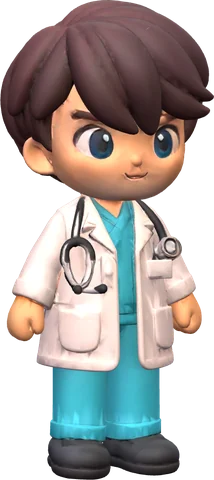
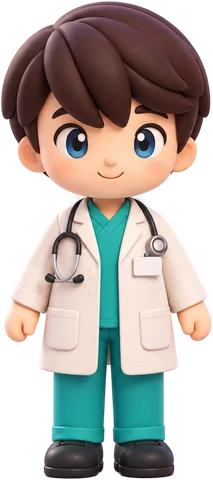
Practice scenes: the doctor, nurse and visitor cut straight from Jose's drawing
The Tripo renders looked off up close (rough painted skin, lumpy hair); a
second Tripo try with detailed texture was still rough. The trainer only
needs still pictures, so the three are now cut out of docs/art/figures-
reference.png (rembg, alpha matting), ~23 KB each. Same layout and motion.

User Guide: nothing to change (the answer describes who stands where, which
is the same).

Claude-Session: https://claude.ai/code/session_01URjRTzQ2mSww3QM2VRj7tw

diff --git a/index.html b/index.html
@@ -11008,8 +11008,8 @@ function memInto(L){ return L.dir === 'en-es' ? 'Spanish' : 'English'; }
 /* Practice scenes (docs/features/practice-scenes.md): the two speakers stand
    either side of the ring, the provider left, the patient or family right,
    you (the ring) between them. The one saying the line leans in while the
-   phone speaks. Pictures rendered once from the Tripo figures (figures/). */
-const MEM_FIG = { doctor:[214, 480], nurse:[189, 480], visitor:[254, 480] };
+   phone speaks. Pictures cut from Jose's drawing, docs/art/figures-reference.png (figures/). */
+const MEM_FIG = { doctor:[213, 480], nurse:[195, 480], visitor:[232, 480] };
 const MEM_PROVIDER = { discharge:'nurse', meds:'nurse', ob:'nurse', peds:'nurse', consent:'doctor', ed:'doctor', ff:'doctor' };
 function memFigHtml(who, side, state){
   const [w, h] = MEM_FIG[who];

diff --git a/CLAUDE.md b/CLAUDE.md
@@ -79,7 +79,7 @@ between assignments.
 | `features/duplicate-doctors.js` | 161 | Duplicate doctors: the likely pairs (`nameParts`, `looksLikeSamePerson`, `duplicateDoctorGroups`), the merge (`mergeDoctorRecords`, `mergeDuplicateDoctors`) and its card in the doctor list's tidy sheet (`duplicateBannerHtml`). Moved verbatim (2026-10-25) |
 | `features/backfill.js` | 154 | The terminology backfill: doctors whose research is still the old flat list (`doctorsNeedingTiers`) re-researched one at a time (`runTierBackfill`, `cancelTierBackfill`, `tierBackfill`) and its card in the doctor list's tidy sheet (`backfillBannerHtml`). Moved verbatim (2026-10-25) |
 | `features/ask-hub.js` | 2,040 | Ask the Hub with Dr. Smiley's side of it: retrieval and the answer (`askRetrieve`, `submitAsk`, `askTurnHtml`, `askLayout`), following a conversation (`ASK.convo`), context and actions (`askContext`, `ASK_ACTION_TYPES`, `ASK_RUN`), what he remembers (`drMemGet`, `ih_smileyMemory`), the memory screen (`openMemory`), your practice and the next step, corrections, feedback, sources and the owner's team notes review (`renderAskReview`). Moved verbatim (2026-10-25), 7 sections at once; a few lines stay in `index.html` where the group began (`ASK_STOP`, the waiting questions brought back, the `online`/`resize` listeners, `window.openAskHub`): they run at load and need `index.html`'s names. `docs/features/ask-the-hub.md` |
-| `figures/*.webp` | 3 files | The doctor, nurse and visitor beside the memory trainer's ring (practice scenes), rendered once from the Tripo figures. `docs/features/practice-scenes.md` |
+| `figures/*.webp` | 3 files | The doctor, nurse and visitor beside the memory trainer's ring (practice scenes), cut out of Jose's drawing. `docs/features/practice-scenes.md` |
 | `memory/lines.json` | — | The memory trainer's 60 practice lines in meaning chunks (`renderMemTrainer`; `docs/features/memory-trainer.md`). Precached by `sw.js` |
 | `sw.js` | 220 | Service worker. Shows pushes from the server (`push`, the icon badge). Network-first for HTML and for the app code beside it (`app.css`, `home-polish.js`/`.css`, `pin-icons.js`; the saved copy offline or after 3 s, so a deploy's page and Home code arrive together), stale-while-revalidate for the rest |
 | `manifest.webmanifest` | — | PWA manifest |

diff --git a/docs/features/practice-scenes.md b/docs/features/practice-scenes.md
@@ -7,10 +7,12 @@ trainer (branch `claude/practice-scenes`): `memSceneHtml`, `memFigHtml`, `MEM_FI
 
 ## As built
 
-- `figures/doctor.webp`, `nurse.webp`, `visitor.webp`: 480 px tall, about 20 KB each, transparent, matte, turned
-  about 24 degrees toward the other speaker. Made by `docs/mockups/characters/render.html` on branch
-  `claude/hub-figures`, with the Tripo models there (`docs/mockups/characters/tripo/`; Tripo task ids in that branch's
-  `docs/handoff.md`). The visitor's hair had a green speck from Tripo's texture, painted over in the picture.
+- `figures/doctor.webp`, `nurse.webp`, `visitor.webp`: 480 px tall, about 23 KB each, transparent, facing forward.
+  Since 2026-11-04 (second version) they are **cut straight out of Jose's drawing** (`docs/art/figures-reference.png` on
+  branch `claude/hub-figures`; the same crops as for Tripo, doubled, background removed with rembg's
+  `isnet-general-use` model and alpha matting). The first version used pictures rendered from the Tripo models; Jose
+  found the visitor ugly (rough painted skin, lumpy hair), and a second Tripo try with its detailed texture (40
+  credits) was still rough. His drawing is smooth and exact, and the trainer only needs still pictures.
 - Shown in the **Listen** and **Your turn** stages only, either side of the ring (`.mem-scene`, a 3-column grid; the
   figures 150 px tall, 126 px under 360 px wide). Listen: the speaker leans in 3 px and 2 degrees on `--spring0`,
   then bobs 3 px every 0.9 s, with a sound mark by the head; the other is at 60% and less saturated. Your turn: both
